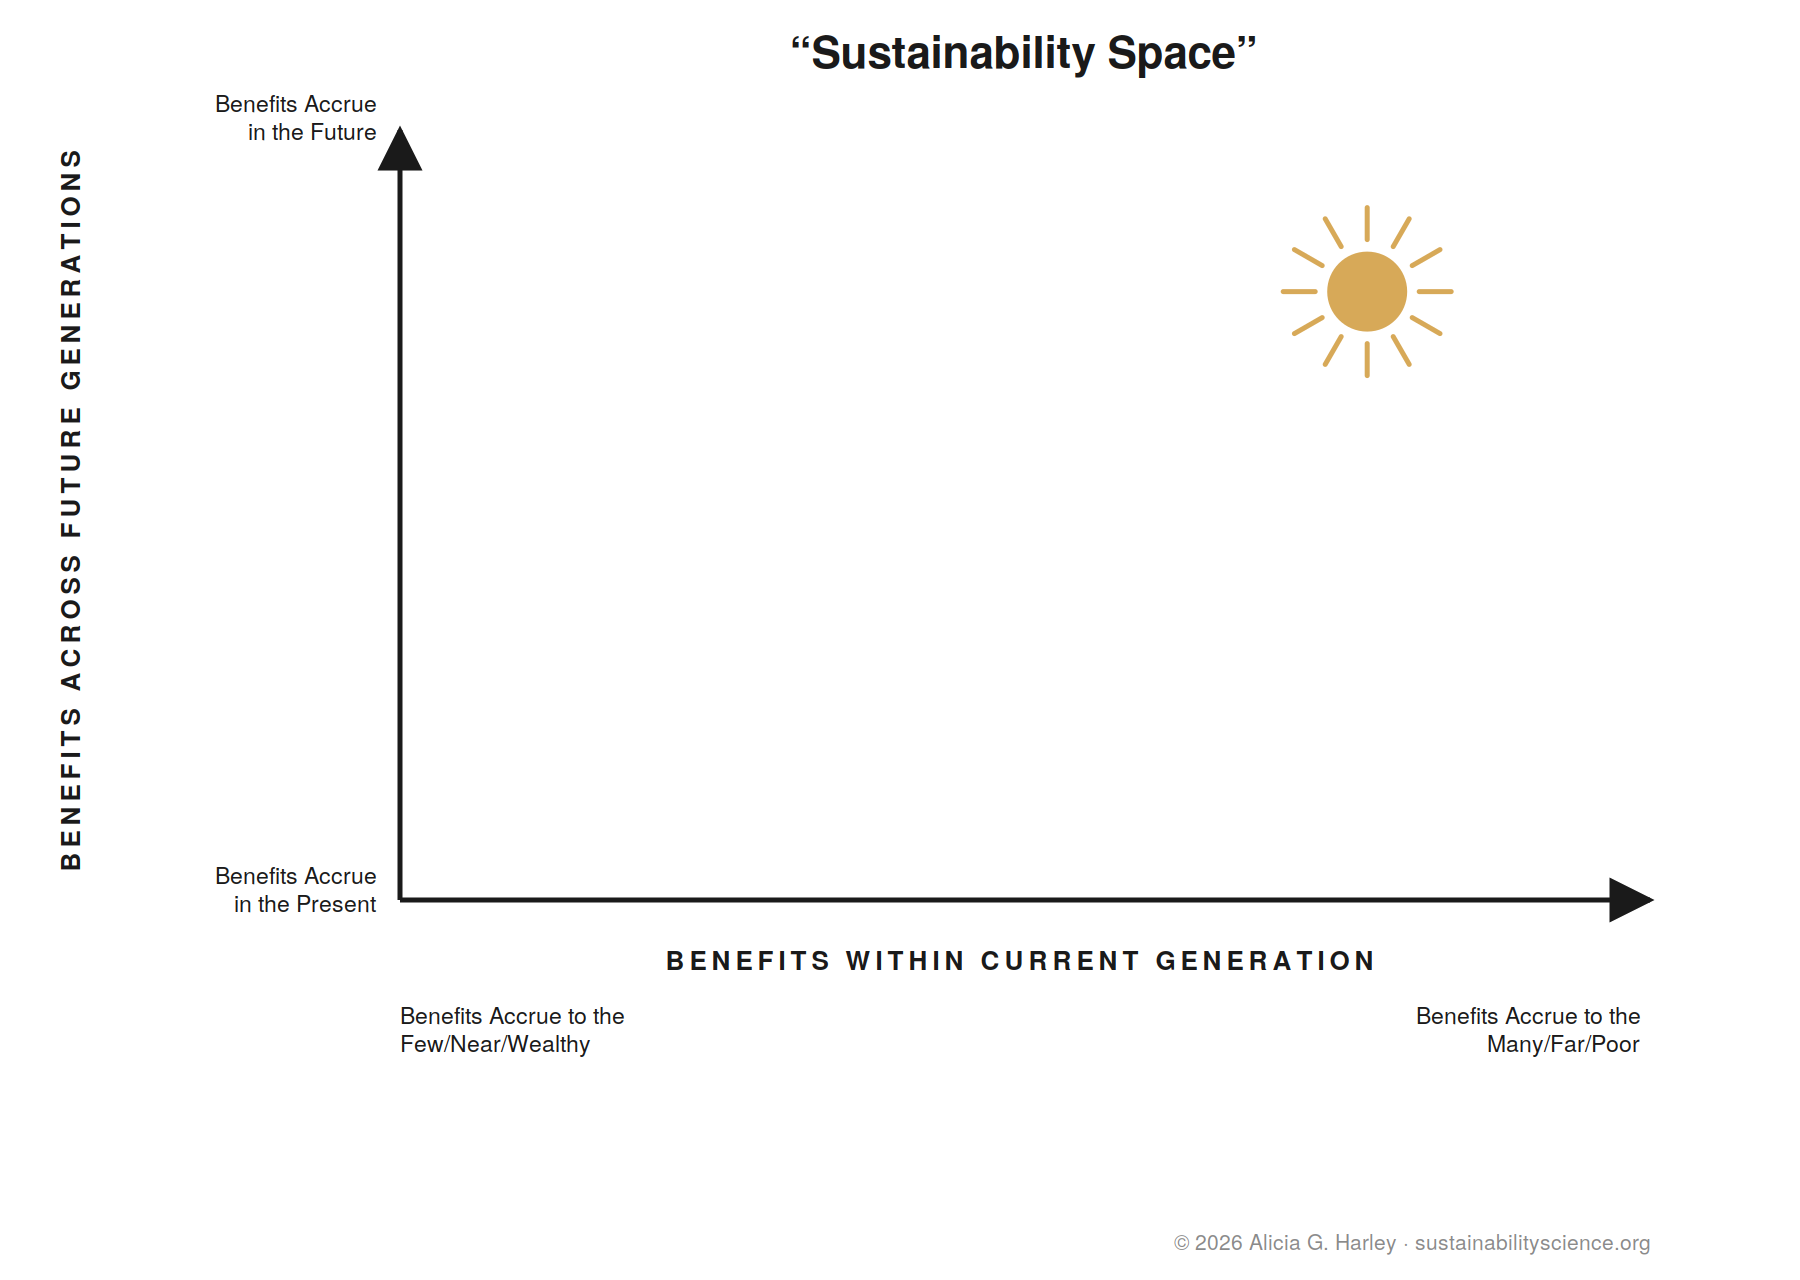
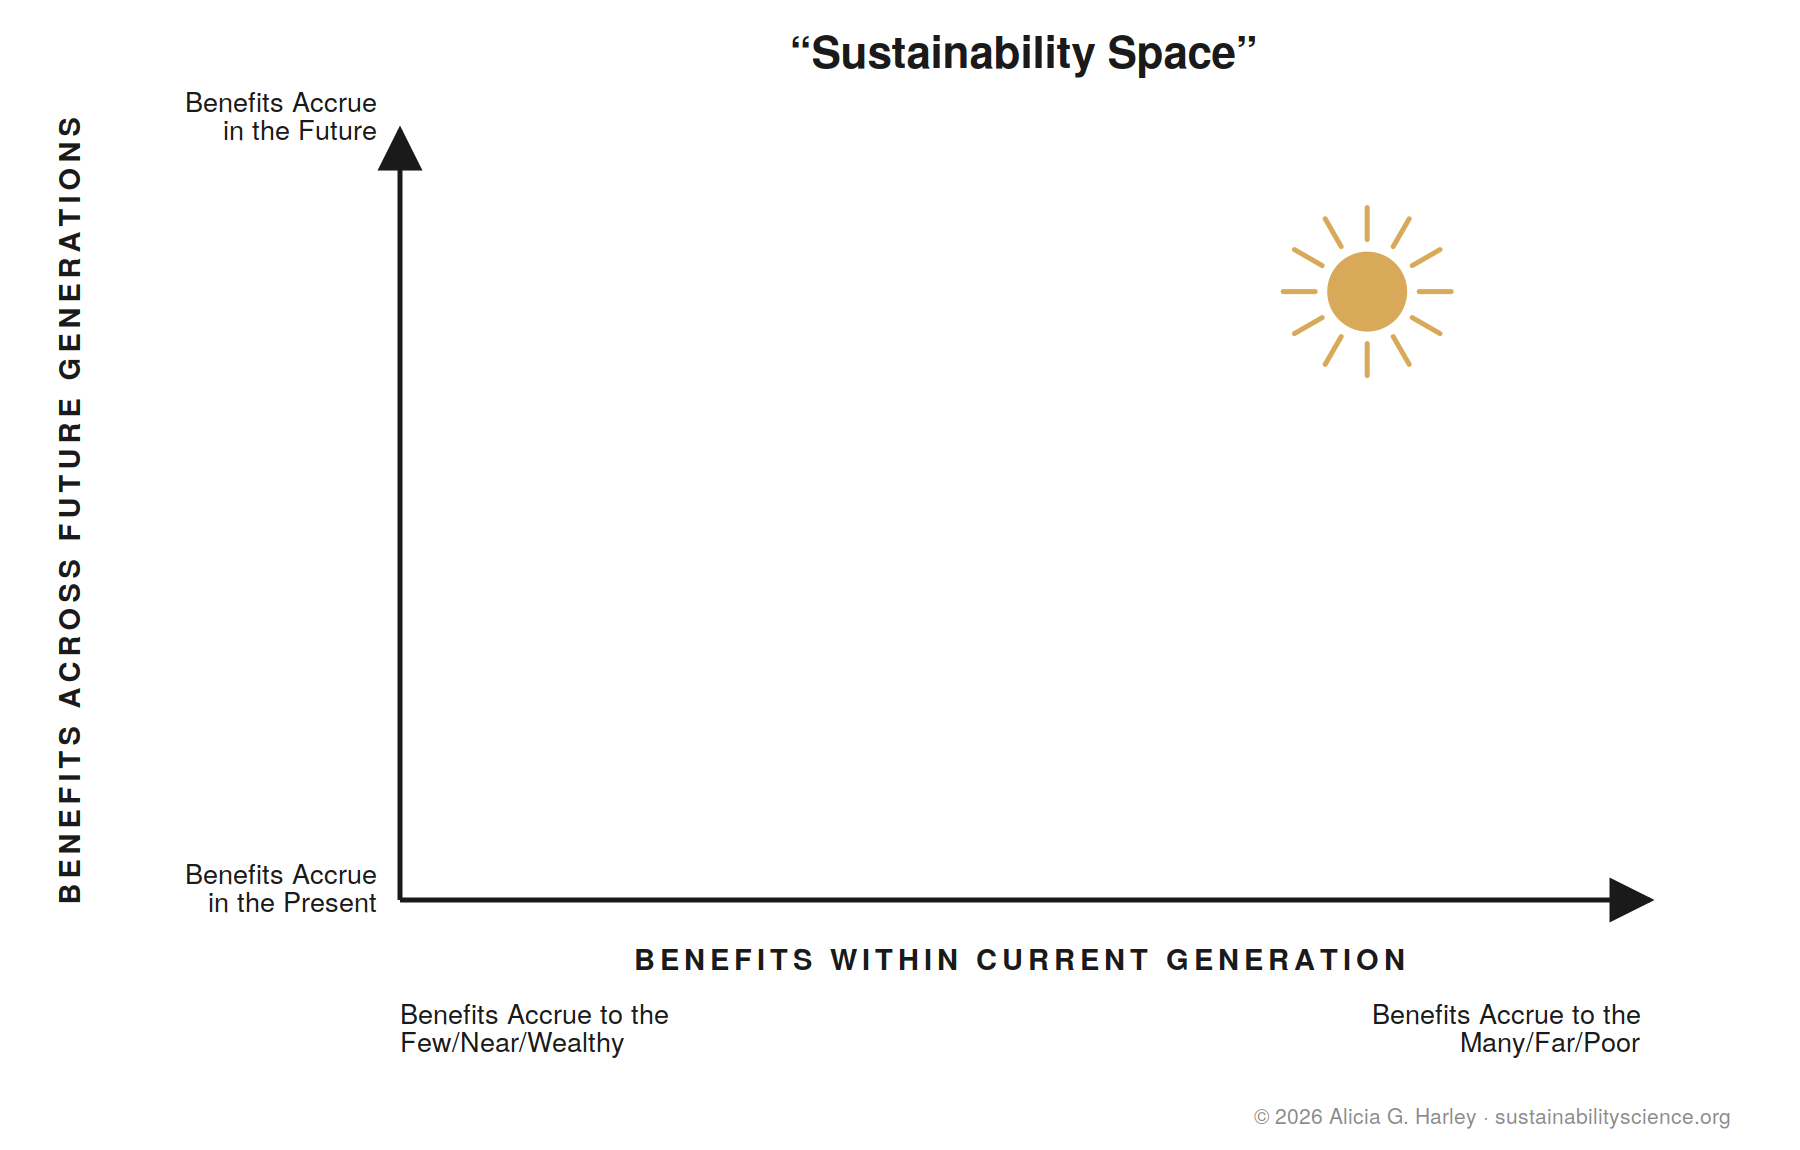
solar pump sustainability space edits

diff --git a/theorist/_posts/2026-08-01-sustainability-space.md b/theorist/_posts/2026-08-01-sustainability-space.md
@@ -110,11 +110,11 @@ What does SKY mean for intra-generational equity? Less than one might hope, beca
 | Who pays for the pump | Farmer, full price, in cash | Government pays up to 90%; farmer the rest | Local enterprise, financed by IDCOL | Farmer, with subsidy and loan, grid-tied |
 | How a small farmer benefits | Sharing or renting panels (anecdotal) | Rarely: slots go to larger farmers | Buys water per irrigation, no capital needed | Rarely: must already own a grid-connected pump |
 | Groundwater use | Solar adopters pump ~25% more than diesel farms | Solar adopters' water use up ~25% (Rajasthan) | No increase: farmers pay per irrigation | Growth slowed: selling power pays better than pumping |
-| Adoption to date | ≈960,000 pumps | ≈1.5 million pumps | ≈2,800 pumps (each serves many water buyers) | ≈4,300 pumps (one per enrolled farmer) |
+| Adoption to date | ≈960,000 pumps: over half of all farm pumping, reached in about three years | ≈1.5 million pumps: about 5% of the pump stock, after fifteen years | ≈2,800 pumps, each serving many water buyers | ≈4,300 pumps, one per enrolled farmer |
 
 *Table 1: The same technology under four institutional arrangements.*
 
-![Solar irrigation pumps plotted in sustainability space: Pakistan and India shown with carbon-only and with-groundwater positions, Bangladesh holding the line on groundwater, and an arrow showing Gujarat SKY moving India's pump upward]({{ site.baseurl }}/assets/images/solar-irrigation-sustainability-space.svg)
+<img src="{{ site.baseurl }}/assets/images/solar-irrigation-sustainability-space.svg" alt="Solar irrigation pumps plotted in sustainability space: Pakistan and India shown with carbon-only and with-groundwater positions, Bangladesh holding the line on groundwater, and an arrow showing Gujarat SKY moving India's pump upward" style="margin-top: 3rem;">
 
 *Figure 2: One basic technology, four sociotechnical arrangements. Solar irrigation plotted in "sustainability space." Hollow circles show where Pakistan's and India's off-grid rollouts would sit counting carbon alone; filled dots also count the drawn-down water table. Bangladesh's service model holds the line on groundwater and reaches the smallest farmers. Gujarat's SKY pilot rewards conservation outright, but its enrollment still skews to larger farms, so the arrow rises far more than it moves right. Counts show adoption to date; positions show who benefits and when, not how many. Positions are illustrative, not measured.*
 
